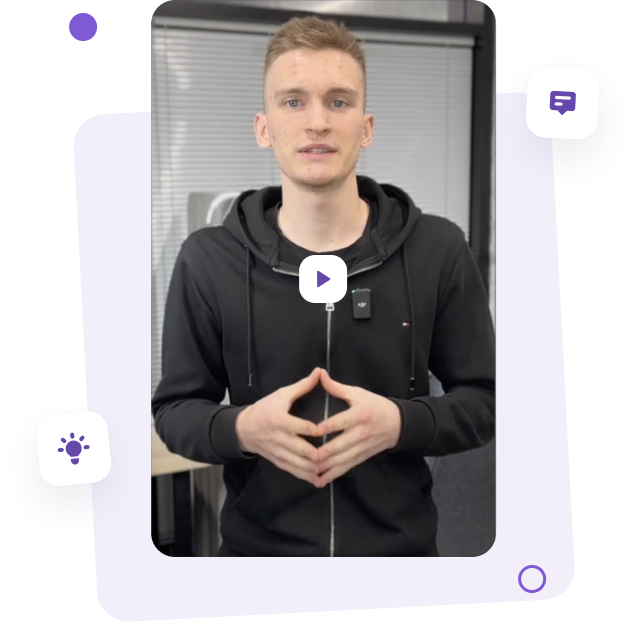
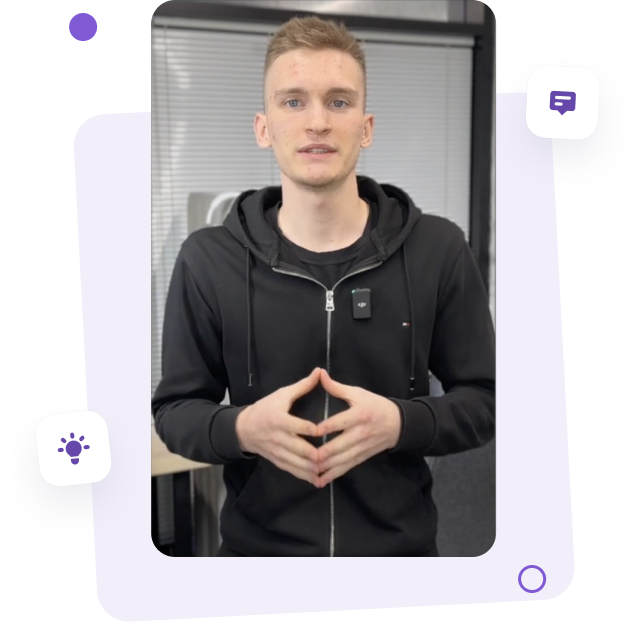
home video player added

Changed region(s): [[0.4481, 0.3958, 0.5676, 0.4872]]

diff --git a/src/components/home/short-review.jsx b/src/components/home/short-review.jsx
@@ -1,17 +1,25 @@
 import React from 'react';
 import {
-	Button,
-	AspectRatio,
 	Box,
 	Flex,
 	Heading,
 	Text,
-	Image
+	Image,
+	useDisclosure,
+	Modal,
+	ModalOverlay,
+	ModalContent,
+	ModalCloseButton,
+	ModalBody,
+	AspectRatio
 } from '@chakra-ui/react';
 import { Link } from 'react-router-dom';
 import assets from '../../assets';
 
+
 export const ShortReview = () => {
+	const { isOpen, onOpen, onClose } = useDisclosure()
+
 	return (
 		<Flex
 			direction={{ base: 'column-reverse', md: 'row' }}
@@ -56,34 +64,45 @@ export const ShortReview = () => {
 					</Link>
 				</Flex>
 			</Box>
-			{/* <Box
-				bgImage={{ base: 'unset', md: "url('https://wp.salesforce.com/en-us/wp-content/uploads/sites/4/2023/08/n-up-news-starter-uma.jpg?resize=1024,576')" }}
-				bgSize='cover'
-				bgPosition='center'
-				bgRepeat='no-repeat'
-				w='100%'
-				h={{ base: 'unset', md: '535px' }}
-			>
-				<Box pt={{ base: '0px', md: '50px', lg: '0px' }}>
-					<AspectRatio
-						maxW='459px'
-						h={{ base: '270px', md: '250px', lg: '332px' }}
-						mt={{ base: '0px', md: '100px' }}
-						mr={{ base: 'auto', md: '20px' }}
-						ml='auto'
-					>
-						<iframe
-							width='100%'
-							height='100%'
-							style={{ borderRadius: '20px' }}
-							src='https://www.youtube.com/embed/vhnFVeRGlCc?si=srdoZ6H0Ng8iXYOT'
-						/>
-					</AspectRatio>
-				</Box>
-			</Box> */}
-			<Box>
+			<Box position='relative'>
 				<Image src={assets.shortReview} />
+				<Box
+					position='absolute'
+					top='50%'
+					left='50%'
+					transform='translate(-50%)'
+					cursor='pointer'
+					onClick={onOpen}
+				>
+					<Image src={assets.playIcon} />
+				</Box>
 			</Box>
+			< Modal onClose={onClose} isOpen={isOpen} isCentered>
+				<ModalOverlay />
+				<ModalContent 
+				maxW='600px'
+					width='100%'>
+					<ModalCloseButton />
+					<ModalBody>
+						<Box pt={{ base: '0px', md: '50px', lg: '0px' }}>
+							<AspectRatio
+								h={{ base: '270px', md: '250px', lg: '332px' }}
+								mt={{ base: '0px', md: '60px' }}
+								mb={{ base: '0px', md: '40px' }}
+								ml='auto'
+							>
+								<iframe
+									width='100%'
+									height='100%'
+									style={{ borderRadius: '20px' }}
+									src='https://www.youtube.com/embed/vhnFVeRGlCc?si=srdoZ6H0Ng8iXYOT'
+								/>
+							</AspectRatio>
+						</Box>
+
+					</ModalBody>
+				</ModalContent>
+			</ Modal>
 		</Flex>
 	)
 }

diff --git a/src/components/home/modal.jsx b/src/components/home/modal.jsx
@@ -1,0 +1,22 @@
+import { useDisclosure } from '@chakra-ui/react'
+export const VideoModal = () => {
+	const { isOpen, onOpen, onClose } = useDisclosure()
+
+	return (
+		<>
+			<Modal onClose={onClose} isOpen={isOpen} isCentered>
+				<ModalOverlay />
+				<ModalContent>
+					<ModalHeader>Modal Title</ModalHeader>
+					<ModalCloseButton />
+					<ModalBody>
+						<Lorem count={2} />
+					</ModalBody>
+					<ModalFooter>
+						<Button onClick={onClose}>Close</Button>
+					</ModalFooter>
+				</ModalContent>
+			</Modal>
+		</>
+	)
+}

diff --git a/src/assets/index.js b/src/assets/index.js
@@ -21,6 +21,7 @@ import lampIcon from  './icons/lamp-icon1.svg'
 import fastIcon from './icons/fast-icon.svg'
 import subScripImg from './subscripbe-box-bg.png'
 import ballon from './balon.png'
+import playIcon from './icons/play-icon.svg'
 
 export default {
 	avitoPlusLogo,
@@ -45,5 +46,6 @@ export default {
 	raketaIcon,
 	starsGroup,
 	subScripImg,
-	ballon
+	ballon,
+	playIcon
 }
